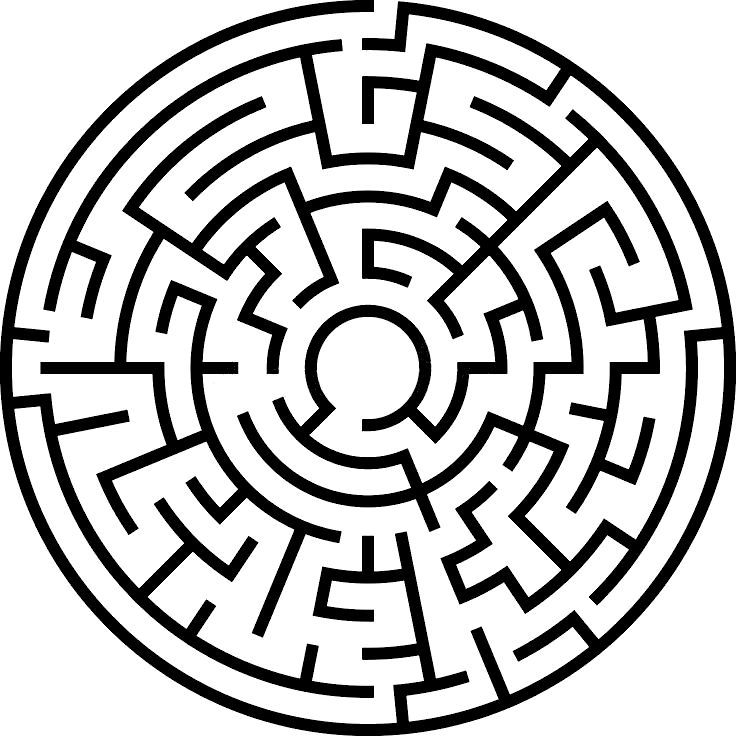
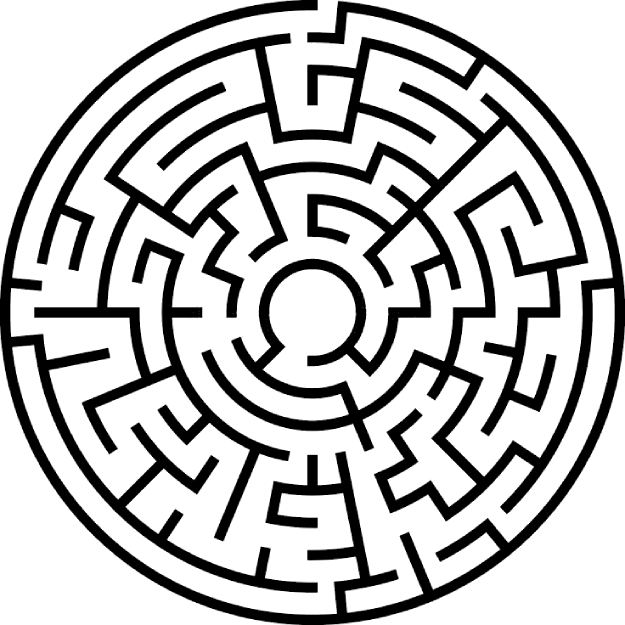
Updated

diff --git a/s2/S2-SDD-Maze/assets/maze1.py b/s2/S2-SDD-Maze/assets/maze1.py
@@ -7,12 +7,13 @@ import turtle
 
 # Create the screen
 screen = turtle.Screen()
+screen.setup(650, 650)
 
 # Name the screen
 screen.title("Maze 1")
 
 # Add the maze background image
-screen.bgpic("maze1-1.png")
+screen.bgpic("maze1.png")
 
 # Create the turtle
 tim = turtle.Turtle()

diff --git a/s2/S2-SDD-Maze/assets/maze3.py b/s2/S2-SDD-Maze/assets/maze3.py
@@ -7,12 +7,13 @@ import turtle
 
 # Create the screen
 screen = turtle.Screen()
+screen.setup(650, 650)
 
 # Name the screen
 screen.title("Maze 3")
 
 # Add the maze background image
-screen.bgpic("maze3.png")
+screen.bgpic("maze3-1.png")
 
 # Create the turtle
 tim = turtle.Turtle()

diff --git a/s2/S2-SDD-Maze/assets/maze2.py b/s2/S2-SDD-Maze/assets/maze2.py
@@ -7,6 +7,7 @@ import turtle
 
 # Create the screen
 screen = turtle.Screen()
+screen.setup(650, 650)
 
 # Name the screen
 screen.title("Maze 2")

diff --git a/s2/S2-SDD-Maze/index.md b/s2/S2-SDD-Maze/index.md
@@ -18,6 +18,7 @@ import turtle
 
 # Create the screen
 screen = turtle.Screen()
+screen.setup(650, 650)
 
 # Name the screen
 screen.title("Maze 1")
